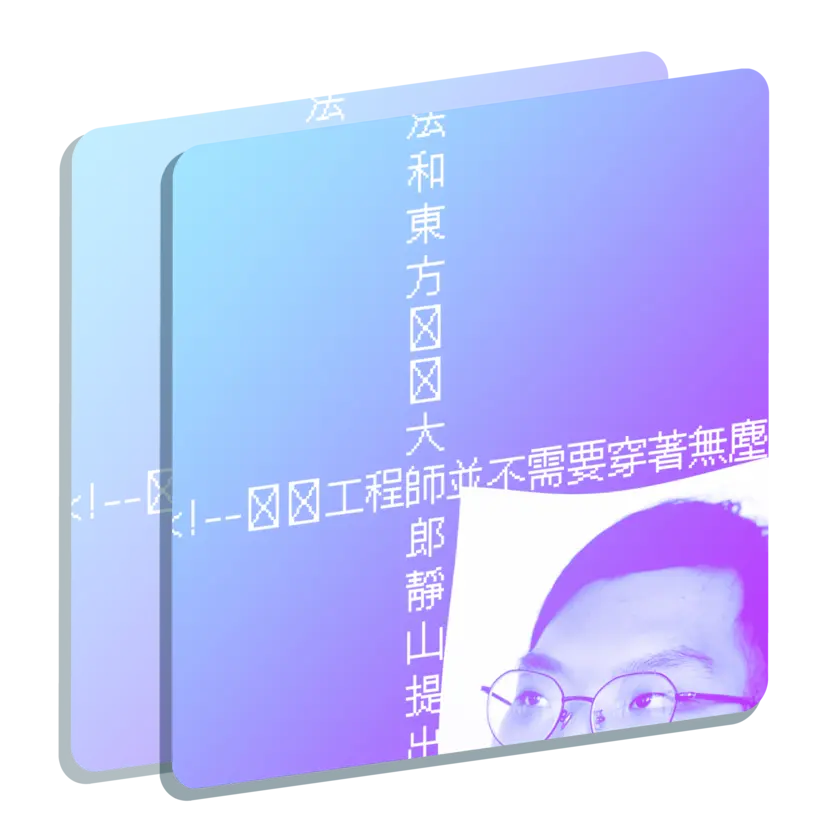
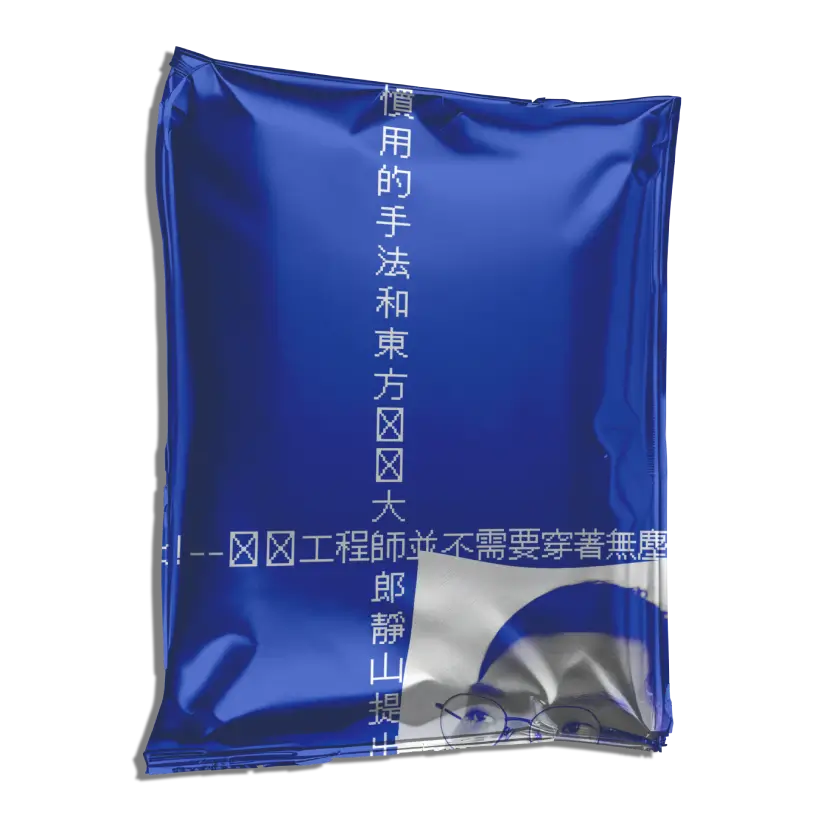
feat: adjust website appearance

diff --git a/docs/.vitepress/theme/style.css b/docs/.vitepress/theme/style.css
@@ -92,18 +92,7 @@
 
 :root {
   --vp-home-hero-name-color: transparent;
-  --vp-home-hero-name-background: -webkit-linear-gradient(
-    120deg,
-    #bd34fe 30%,
-    #41d1ff
-  );
-
-  --vp-home-hero-image-background-image: linear-gradient(
-    -45deg,
-    #bd34fe 50%,
-    #47caff 50%
-  );
-  --vp-home-hero-image-filter: blur(44px);
+  --vp-home-hero-name-background: #5672CD;
 }
 
 @media (min-width: 640px) {
@@ -158,4 +147,13 @@
   left: 0;
   width: 100%;
   height: 100%;
+}
+
+/**
+ * Custom Typography
+ * -------------------------------------------------------------------------- */
+
+:root {
+  text-autospace: normal;
+  --vp-font-family-base: 'Punctuation TC', 'Inter', ui-sans-serif, system-ui, sans-serif, 'Apple Color Emoji', 'Segoe UI Emoji', 'Segoe UI Symbol', 'Noto Color Emoji';
 }

diff --git a/docs/pov/other/city-science.md b/docs/pov/other/city-science.md
@@ -43,13 +43,28 @@ head:
 -  Tobler's First Law of Geography：兩地越近越相關
 -  Bussiere's Law：城市發展和中心區域之人口密度呈現負相關
 -  Brand’s Law：城市規模和永續程度呈現正相關
+### [新莊街之都市運動](https://doi.org/10.6752/JCS.202204_(34).0003)
+- David Harvey認為，「城市權應該被視為一種集體權利，而非私人物權，因為後者正是新自由主義市場邏輯背後的基礎。」
+- Manuel Castells：都市社會運動代表人物
+#### 新莊街文化治理三階段
+1. 廟街協會和黃林玲玲的伊始：人行徒步區和廟街入口意象正於此時設立
+2. 五年改造計畫和周錫瑋的宏願：從中港大排到新莊碼頭，宣告大河時代來臨。都改組織OURs的參與，點燃了啟蒙的火種
+3. 財政困局和朱立倫的轉型：蘇貞昌表示台北縣曾舉債600億，朱立倫則提出新北市負債達1503億。於是土地開發成為開源選項，五年改造計劃告吹
+#### 兩個倡議組織
+1. 永續聯盟：更關心歷史文化
+2. 新莊青盟：更關心公地公用
+#### 派出所都更一度暫緩的三個原因
+1. 副市長許志堅收賄
+2. 皇翔建設想解約
+3. 新北房地產不景氣
 
 ## 案例整理
 - CityAI的三大特色是Tool Preamble / Human-in-the-loop / Data Lineage
 - 北捷、NVIDIA和Linker Vision攜手展開「文湖線人流模擬暨數位孿生」計畫，預計27年完成
 - MIT教授Kent Larson曾使用CityScope協助安道爾成為智慧國家
 - MIT SCL的[Octopus](https://mit-senseable-city-lab.github.io/octopus-documentation/)可以測量里約乃至世界各地的空汙
-- DestinE是歐盟的孿生地球，DestinE是輝達的孿生地球
+- DestinE是歐盟的孿生地球，Earth-2是輝達的孿生地球
+- ZHA事務所曾發起專案Walkable London，試圖從Oxford Street的可步行化向外擴延
 ### 資料視覺化
 - Ed Hawkins：[Climate stripes](https://showyourstripes.info/) & [Climate spirals](https://www.climate-lab-book.ac.uk/2016/spiralling-global-temperatures/)
 - Eric Fischer：[See something or say something](https://www.flickr.com/photos/walkingsf/albums/72157627140310742/)

diff --git a/docs/about/lifelog/2025.md b/docs/about/lifelog/2025.md
@@ -53,9 +53,9 @@ head:
 - 使用App Script製作電郵提醒
 - 第一次使用網路芳鄰
 - 第一次使用OSC、NDI及Spout
-- 獲得某科技大廠工作證
+- 獲得聯華電子工作證
 - 參與「歡迎光臨麟光社」演出活動
-- 更新某裝置藝術的平板操作UI
+- 更新「循環經濟資源創生中心」裝置藝術的平板操作UI
 - 使用deck.gl製作臺北飲水機地圖
 
 ## Aug 
@@ -73,7 +73,7 @@ head:
 - 參與《CMG創意媒體聚》
 - 參與公司東京移展維運
 - 參與飛地書店班雅明講座
-- 檢核知名藝文場館電子看板設定
+- 檢核臺中綠美圖電子看板設定
 - 協助設定多媒體播放機BrightSign
 - 操作Epson貼紙機
 - 參與仙宮小誌交換活動

diff --git a/docs/pov/art/arthon.md b/docs/pov/art/arthon.md
@@ -249,6 +249,8 @@ head:
 - Curtius寫書是為了緬懷Aby Warburg，卻認為藝術不是思想的媒介
 - Curtius認為寫作總有共通主題的思想，受到Bergson和Jung的影響
 - Baby Talkie不只是日本的西洋鏡，設計目的是為留聲機加入影像
+- Roger Caillois認為留影盤、費納奇鏡、西洋鏡、活動視鏡屬於模仿的範疇
+- Wanda Strauven則認為以上玩具屬於暈眩的範疇，借用自Caillois的遊戲四分類法
 
 ## 溝通媒介史
 - 1794年，法國政治家Lakanai建議鋪設光學電報系統「夏普塔」

diff --git a/docs/pov/design/classic.md b/docs/pov/design/classic.md
@@ -63,6 +63,7 @@ head:
 - Greenhouse：SFF（斯德哥爾摩家具展）的新銳展區
 - Älvsjö gård：SFF的實驗平台，原為老莊園
 - 3daysofdesign：哥本哈根三日設計節
+- Jia CURATED：精神為Gotong Royong（互助共創）的峇里島展會
 
 ## 材料工法
 - Lyocell：萊賽爾纖維，木質纖維第三代，前兩代是嫘縈和莫代爾

diff --git a/docs/pov/font/the-type.md b/docs/pov/font/the-type.md
@@ -282,3 +282,7 @@ head:
 - 藏文書法日：4/30
 - SILICON：Stanford關於保存弱勢語言的計畫
 - 華康金剛黑預計會支持宗喀語
+
+## 一百年前的〇〇後
+- Jan Tschichold也可以譯成楊清秋
+- 其最經典的著作是《新字體排印》（Die neue Typographie）

diff --git a/docs/global/english/vox.md b/docs/global/english/vox.md
@@ -132,3 +132,7 @@ head:
 ::: details Takeaway
 - #GutTok在TikTok上有超過60億次觀看
 :::
+
+## How a Super El Niño affects the global climate
+- El Niño：聖嬰現象
+- ENSO：聖嬰-南方振盪

diff --git a/docs/index.md b/docs/index.md
@@ -37,7 +37,7 @@ hero:
     src: /haruo.webp
     alt: Haruo Wang
   actions:
-    - theme: alt
+    - theme: brand
       text: About Me
       link: /about/about-me/haruo
     - theme: alt

diff --git a/docs/global/japan/n4.md b/docs/global/japan/n4.md
@@ -527,3 +527,9 @@ head:
 > 表示鄭重有禮貌
 
 - い形容詞 + うございます
+
+## お～いただきます
+> 請您做
+
+## ～せてください
+> 請讓我做
